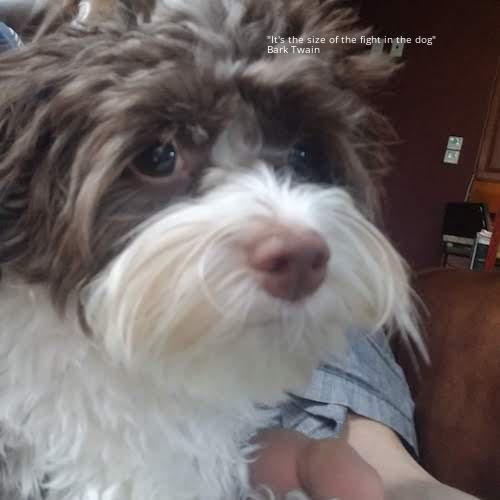
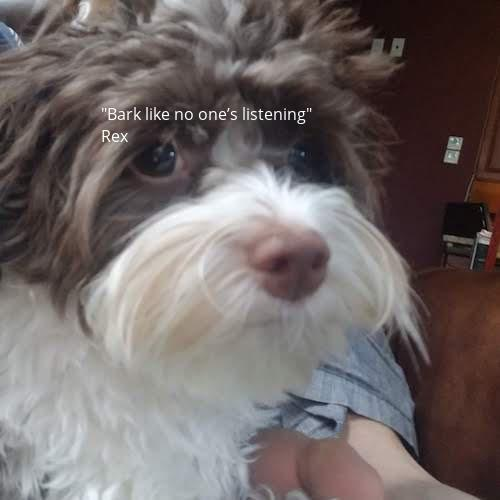
Modify app to handle errors

Changed region(s): [[0.21, 0.21, 0.63, 0.3], [0.54, 0.06, 0.87, 0.12]]

diff --git a/MemeEngine/__init__.py b/MemeEngine/__init__.py
@@ -3,8 +3,10 @@
 import os
 import math
 import random
+import textwrap
 from pathlib import Path
 from PIL import Image, ImageDraw, ImageFont
+from string import ascii_letters
 
 
 class MemeEngine:
@@ -13,26 +15,56 @@ class MemeEngine:
     def __init__(self, output_dir) -> None:
         """Save output dir."""
         self.output_dir = output_dir
+        self.font = ImageFont.truetype(
+            './OpenSans-Regular.ttf', size=16, encoding='utf-8')
+        self.avg_char_width = sum(self.font.getsize(
+            char)[0] for char in ascii_letters) / len(ascii_letters)
+        self.avg_char_height = sum(self.font.getsize(
+            char)[1] for char in ascii_letters) / len(ascii_letters)
 
-    def make_meme(self, img_path, text, author, width=500) -> str:
+    def get_resized_image(self, im, width):
+        """Return resized image."""
+        height = math.ceil((width * im.height) / im.width)
+        return im.resize((width, height))
+
+    def calculate_max_char_count(self, width):
+        """Return max number of chars in a line."""
+        return int((width * .90) / self.avg_char_width)
+
+    def generate_quote(self, width, text='', author=''):
+        """Return a quote object."""
+        max_width = self.calculate_max_char_count(width)
+
+        quote_lines = textwrap.wrap(
+            text, max_width) + textwrap.wrap(author, max_width)
+        quote_text = ''
+        for line in quote_lines:
+            quote_text = quote_text + line + '\n'
+
+        return {
+            'text': quote_text,
+            'height': len(quote_lines) * self.avg_char_height,
+            'width': len(quote_lines) * max_width
+        }
+
+    def make_meme(self, img_path, text='', author='', width=500) -> str:
         """Generate a meme."""
         if width > 500:
             raise Exception('Maximun width is 500')
 
         with Image.open(img_path) as im:
-            height = math.ceil((width * im.height) / im.width)
-            im_resized = im.resize((width, height))
+            im_resized = self.get_resized_image(im, width)
 
             draw = ImageDraw.Draw(im_resized)
-            font = ImageFont.truetype(
-                './OpenSans-Regular.ttf', size=10, encoding='utf-8')
-            font_width, font_height = font.getsize(text)
 
-            x = random.randint(0, im_resized.width - font_width - 10)
-            y = random.randint(0, im_resized.height - font_height * 2 - 10)
+            quote = self.generate_quote(im_resized.width, text, author)
 
-            draw.text((x, y), text, font=font)
-            draw.text((x, y + 10), author, font=font)
+            x = random.randint(int(im_resized.width * .10),
+                               int((im_resized.width * .90) - quote['width']))
+            y = random.randint(int(im_resized.width * .10),
+                               int((im_resized.height * .90) - quote['height']))
+
+            draw.text((x, y), quote['text'], font=self.font)
 
             file_name = os.path.split(img_path)[1]
             destination = os.path.join(self.output_dir, file_name)

diff --git a/app.py b/app.py
@@ -65,25 +65,27 @@ def meme_post():
     path = None
     output_dir = './tmp'
 
-    if  image_url:
-        img_name = image_url.rsplit('/', 1)[1]
-        img_extension = img_name.split('.')[-1]
-        if img_extension in ['png', 'jpg', 'jpeg']:
-            try:
-                r = requests.get(image_url, allow_redirects=True)
-                tmp_img = os.path.join(output_dir, img_name)
-                Path(output_dir).mkdir(parents=True, exist_ok=True)
-                open(tmp_img, 'wb').write(r.content)
-                path = meme.make_meme(tmp_img, body, author)
-                os.remove(tmp_img)
-            except:
-                raise Exception('Error trying to generate image.')
+    try:
+        if image_url:
+            img_name = image_url.rsplit('/', 1)[1]
+            img_extension = img_name.split('.')[-1]
+            if img_extension.lower() in ['png', 'jpg', 'jpeg']:
+                try:
+                    r = requests.get(image_url, allow_redirects=True)
+                    tmp_img = os.path.join(output_dir, img_name)
+                    Path(output_dir).mkdir(parents=True, exist_ok=True)
+                    open(tmp_img, 'wb').write(r.content)
+                    path = meme.make_meme(tmp_img, body, author)
+                    os.remove(tmp_img)
+                except:
+                    raise Exception('Error trying to generate image.')
+            else:
+                error_msj = f'Invalid image extension {img_extension}'
+                raise Exception(error_msj)
         else:
-            error_msj = f'Invalid image extension {img_extension}'
-            raise Exception(error_msj) 
-    else:
-        raise  Exception('Missing image')
-
+            raise Exception('Missing image')
+    except:
+        path = meme.make_meme('./imgs/black-img.jpeg', 'Invalid image')
 
     return render_template('meme.html', path=path)
 
